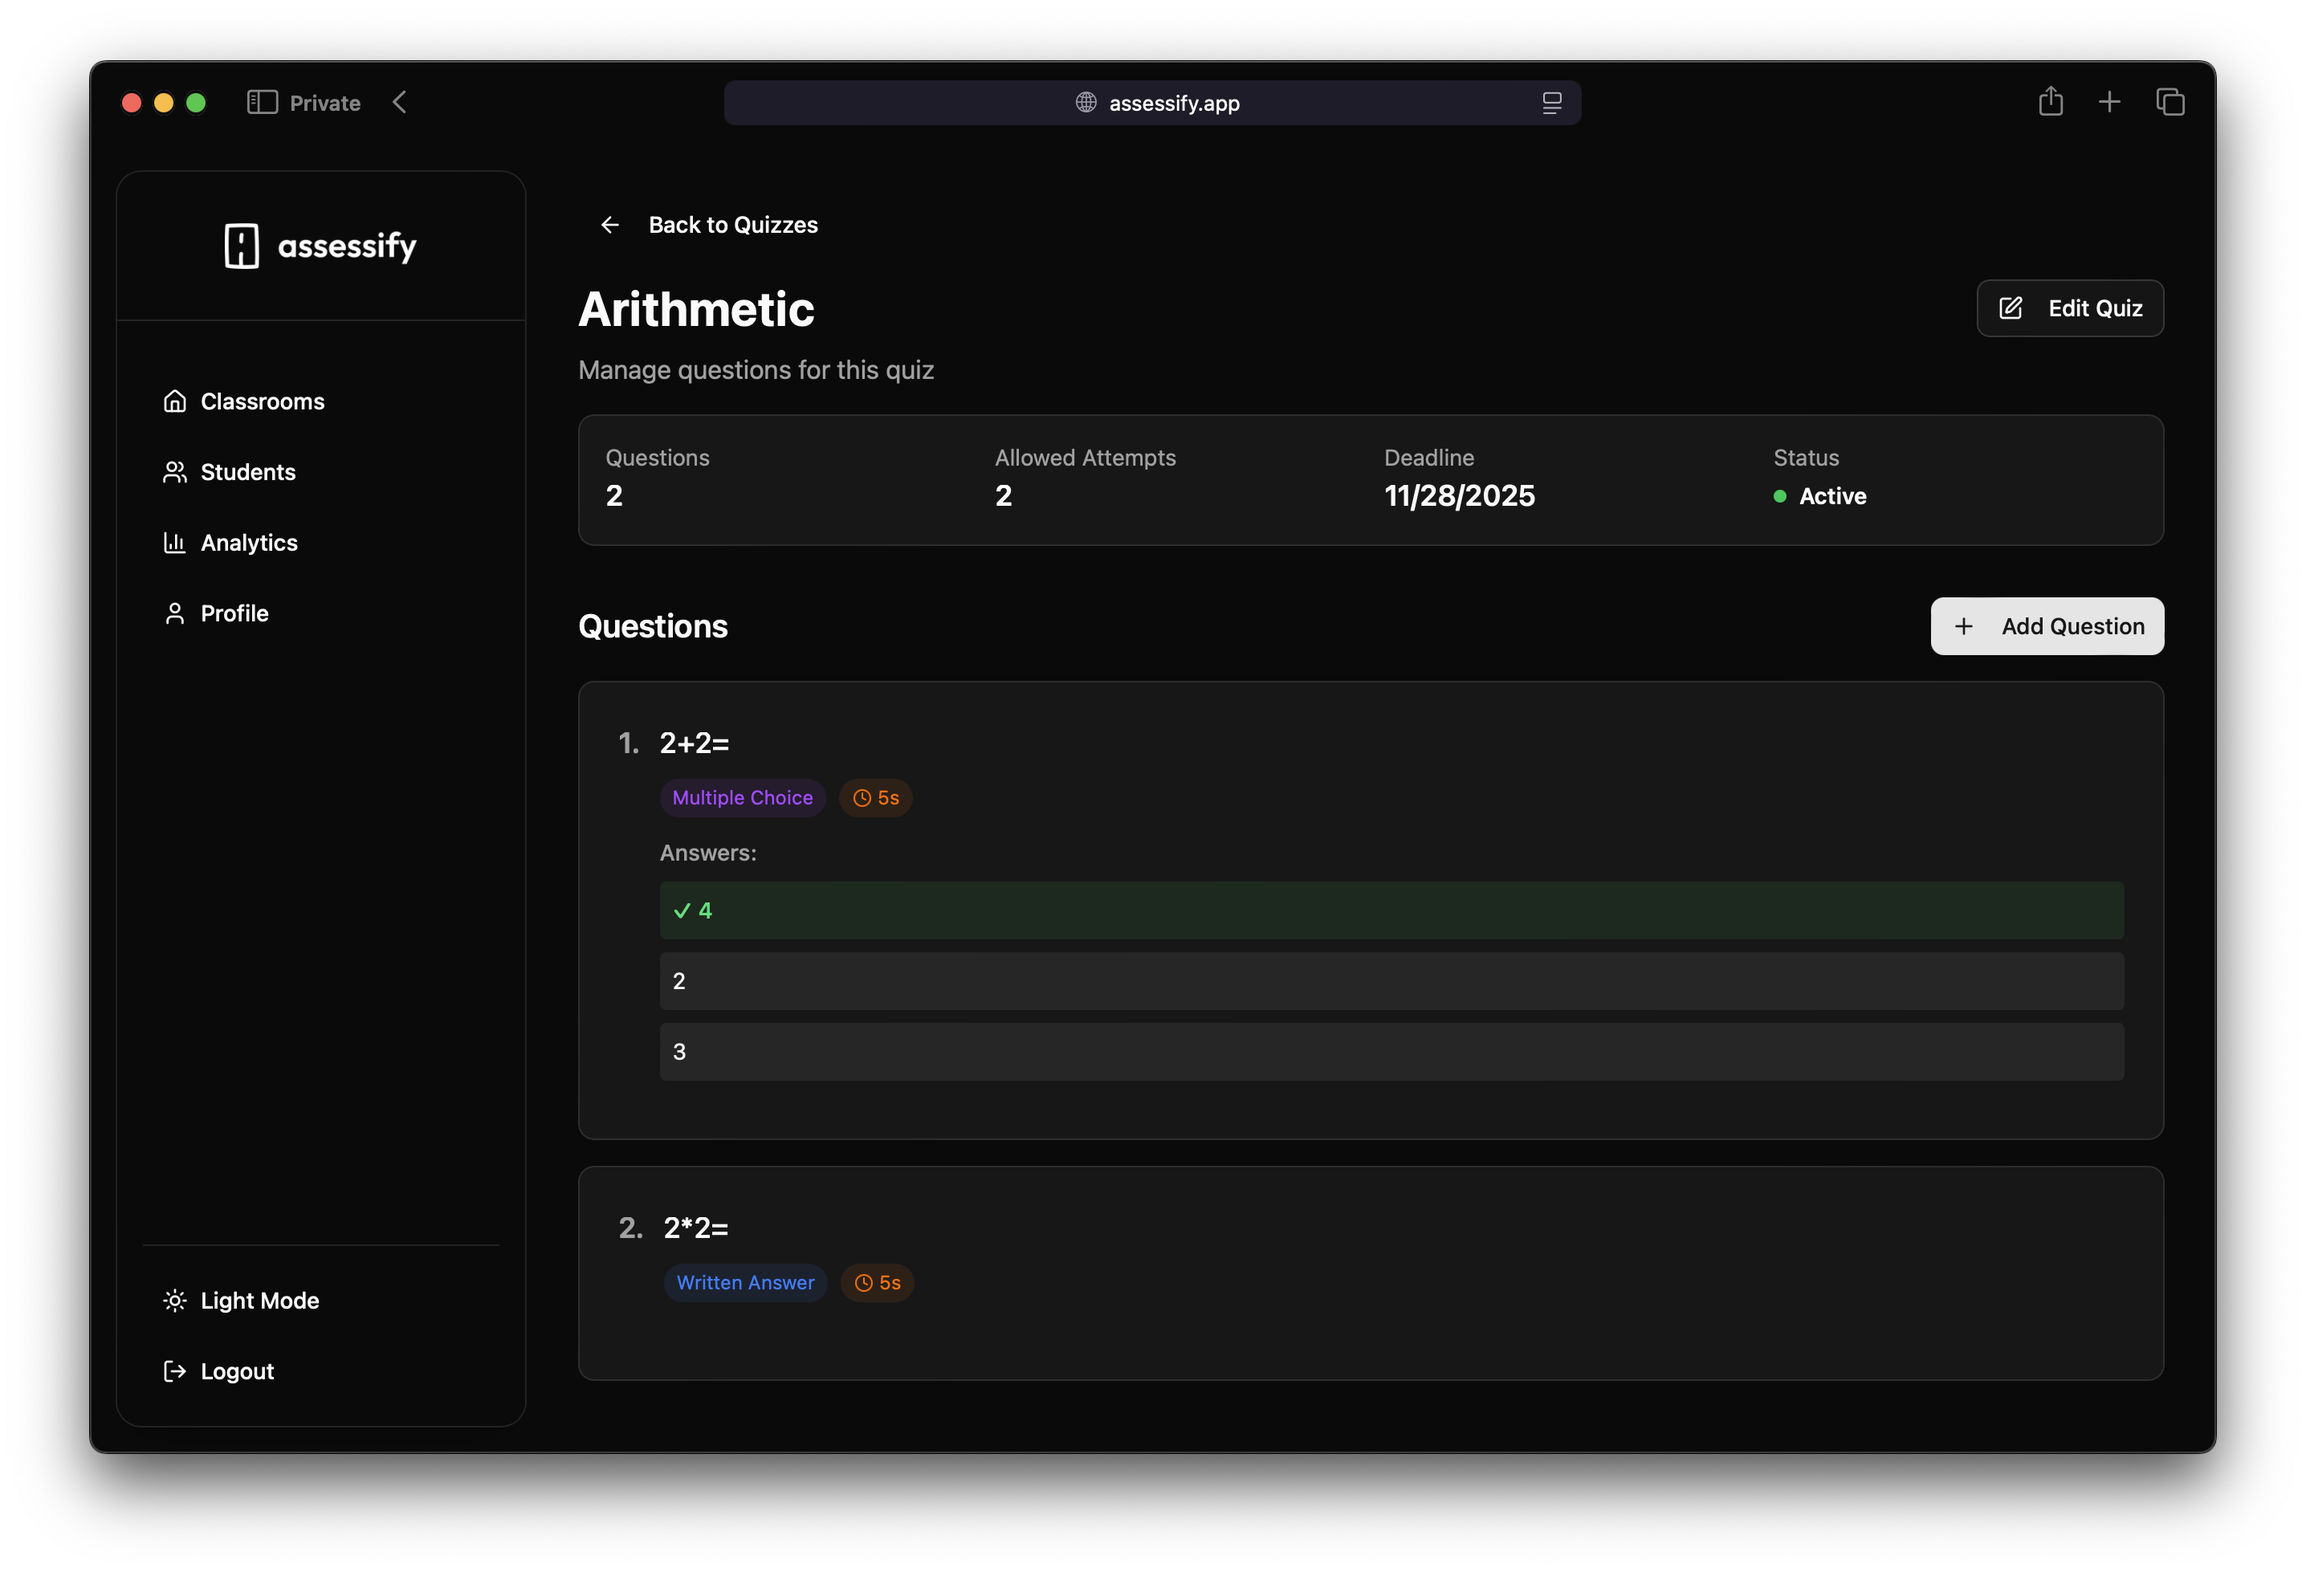
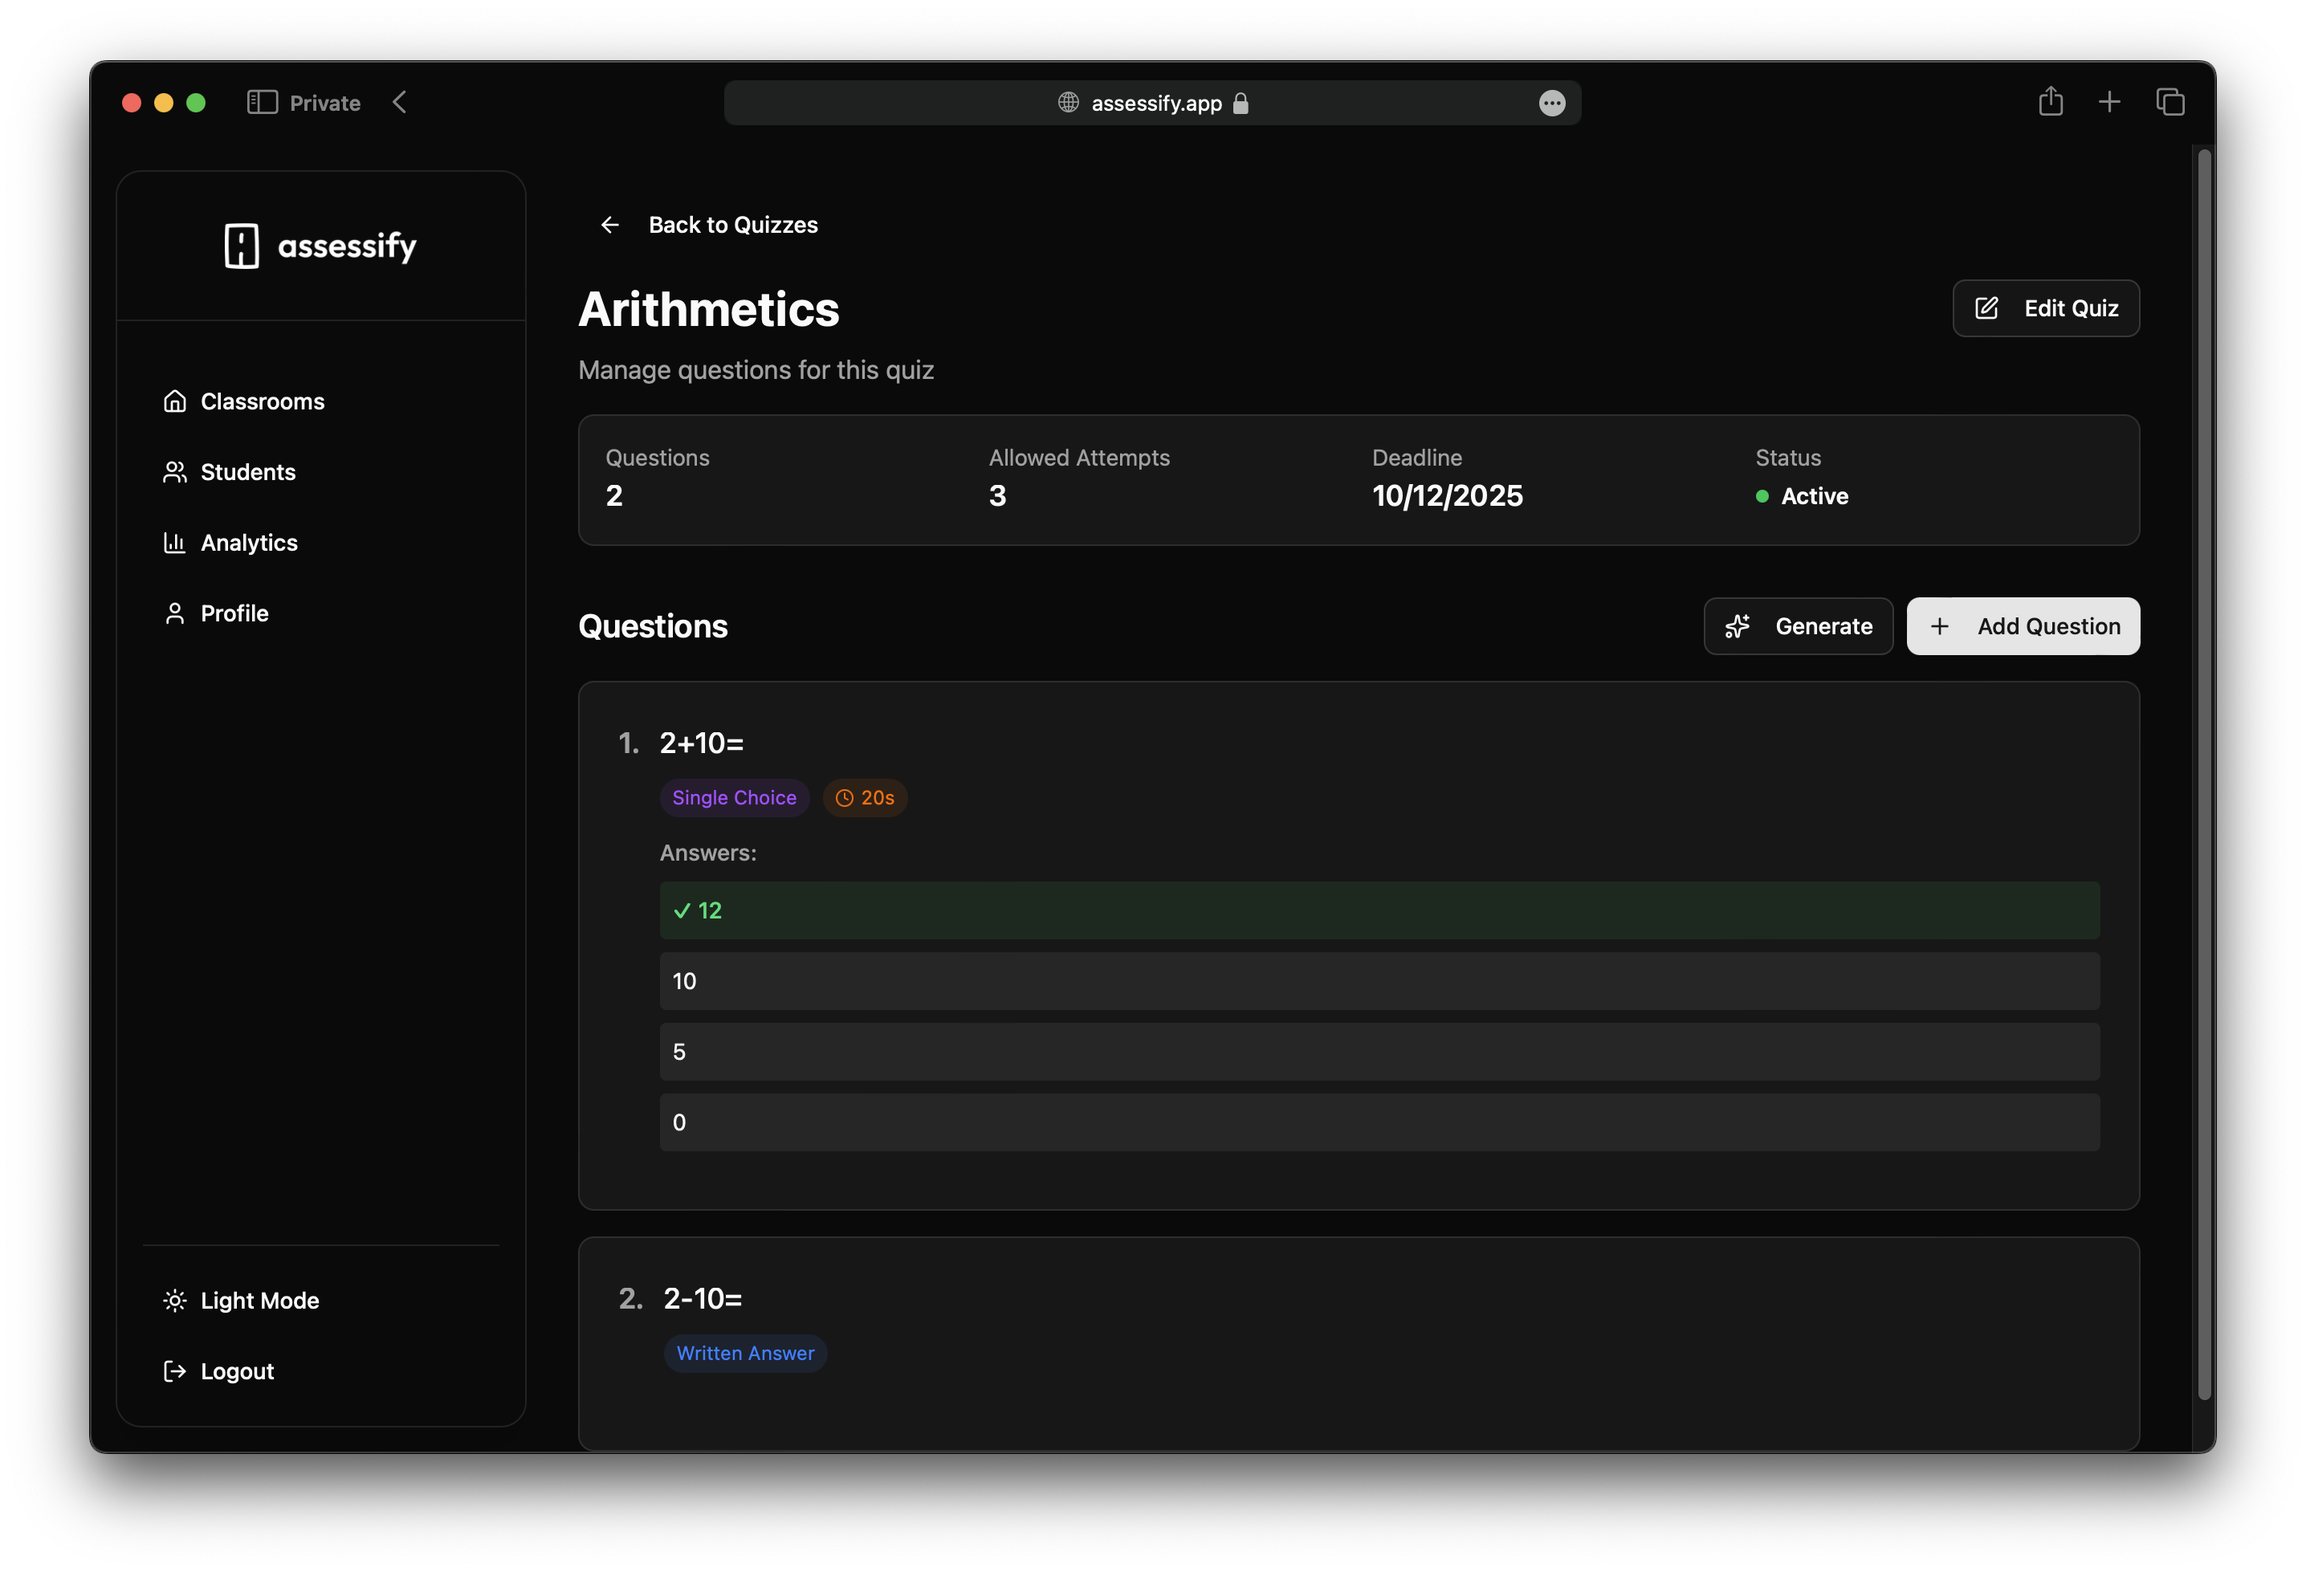
upd landing page

diff --git a/app/landing/page.tsx b/app/landing/page.tsx
@@ -20,6 +20,7 @@ import {
   Globe,
   Twitter,
   ArrowRight,
+  Sparkles,
 } from "lucide-react";
 import { cn } from "@/lib/utils";
 import axios from "axios";
@@ -37,7 +38,7 @@ const features = [
   {
     title: "Quiz Management",
     description:
-      "Students can attempt quizzes with per-question time limits; teachers can create, manage, and analyze quizzes with multiple question types.",
+      "Create, manage, and analyze quizzes with per-question time limits and multiple question types. Generate quizzes instantly with our AI.",
     image: "/features/dark/Quiz Management teacher.png",
     imageAlt: "/features/dark/Quiz attempt student.png",
     icon: ClipboardList,
@@ -166,7 +167,7 @@ export default function LandingPage() {
         {
           username,
           password,
-        }
+        },
       );
 
       const { access: accessToken, refresh: refreshToken } = response.data;
@@ -365,7 +366,12 @@ export default function LandingPage() {
           </h1>
 
           <p className="text-gray-400 text-lg md:text-xl max-w-2xl mx-auto mb-10">
-            A comprehensive platform for teachers and students. Create quizzes,
+            A comprehensive platform for teachers and students. Create quizzes
+            with{" "}
+            <span className="text-emerald-400 whitespace-nowrap">
+              <Sparkles className="w-5 h-5 inline align-text-bottom" /> AI
+              generation,
+            </span>{" "}
             manage classrooms, and track performance — all in one place.
           </p>
 
@@ -539,7 +545,7 @@ export default function LandingPage() {
                 "relative cursor-pointer rounded-2xl border-2 p-8 transition-all duration-300 hover:scale-105 group",
                 selectedDemoRole === "student"
                   ? "border-emerald-500 bg-emerald-500/10"
-                  : "border-white/10 bg-white/5 hover:border-emerald-500/30"
+                  : "border-white/10 bg-white/5 hover:border-emerald-500/30",
               )}
               onClick={() => !isDemoLoading && handleDemoLogin("student")}
             >
@@ -553,7 +559,7 @@ export default function LandingPage() {
                       "text-xl font-semibold",
                       selectedDemoRole === "student"
                         ? "text-emerald-400"
-                        : "text-white"
+                        : "text-white",
                     )}
                   >
                     Student Demo
@@ -578,7 +584,7 @@ export default function LandingPage() {
                 "relative cursor-pointer rounded-2xl border-2 p-8 transition-all duration-300 hover:scale-105 group",
                 selectedDemoRole === "teacher"
                   ? "border-emerald-500 bg-emerald-500/10"
-                  : "border-white/10 bg-white/5 hover:border-emerald-500/30"
+                  : "border-white/10 bg-white/5 hover:border-emerald-500/30",
               )}
               onClick={() => !isDemoLoading && handleDemoLogin("teacher")}
             >
@@ -592,7 +598,7 @@ export default function LandingPage() {
                       "text-xl font-semibold",
                       selectedDemoRole === "teacher"
                         ? "text-emerald-400"
-                        : "text-white"
+                        : "text-white",
                     )}
                   >
                     Teacher Demo
@@ -899,10 +905,16 @@ export default function LandingPage() {
               <a href="#faq" className="hover:text-white transition">
                 FAQ
               </a>
-              <a href={process.env.NEXT_PUBLIC_API_URL} className="hover:text-white transition">
+              <a
+                href={process.env.NEXT_PUBLIC_API_URL}
+                className="hover:text-white transition"
+              >
                 API
               </a>
-              <a href={`${process.env.NEXT_PUBLIC_API_URL}/redoc`} className="hover:text-white transition">
+              <a
+                href={`${process.env.NEXT_PUBLIC_API_URL}/redoc`}
+                className="hover:text-white transition"
+              >
                 Redoc
               </a>
               <Link href="/login" className="hover:text-white transition">
